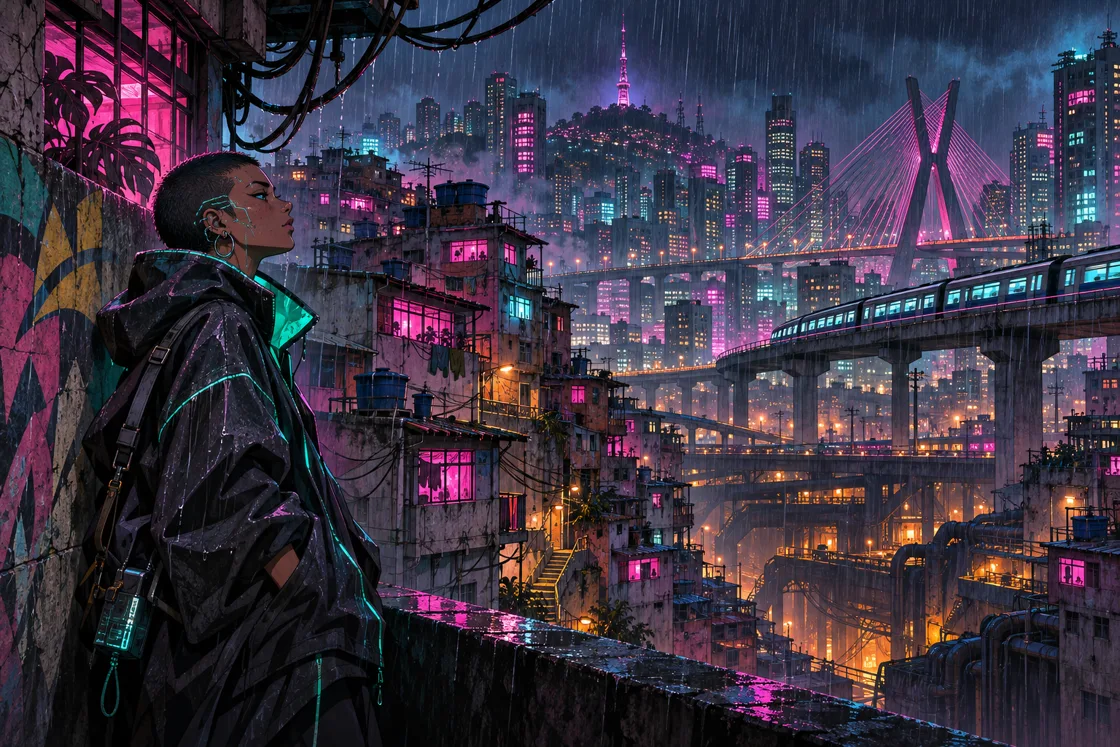
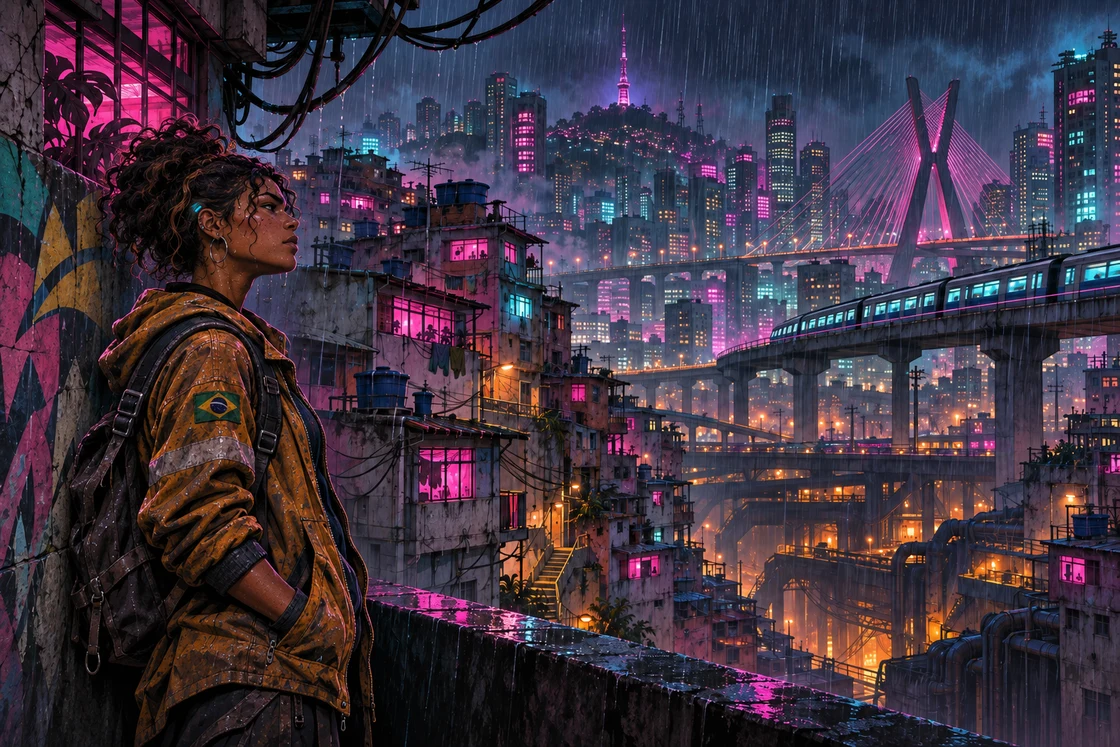
Match title screen Kairo to the prologue

diff --git a/docs/plano-arte-webcomic.md b/docs/plano-arte-webcomic.md
@@ -23,7 +23,7 @@ Reserve as onomatopeias para sons que pontuam a ação, como o leitor da porta e
 
 | Personagem | Referência aprovada |
 | --- | --- |
-| Kairo | [Retrato](../src/assets/kairo-token.webp) e [leitor da porta](../src/assets/comic/leitor-da-porta.webp). Mulher negra jovem. Preserve o tom de pele, a idade aparente e a manga escura do quadro ao mostrar sua mão. |
+| Kairo | [Prólogo na Estação](../src/assets/prologo-estacao.webp), [prólogo em casa](../src/assets/prologo-casa.webp) e [capa](../src/assets/baixa-luz-cover.webp). Mulher negra jovem, com cabelo preto crespo preso em coque alto e jaqueta de técnica em tom ocre. Use a mesma idade aparente, os mesmos traços e o mesmo tom de pele do prólogo, também nos closes como o [leitor da porta](../src/assets/comic/leitor-da-porta.webp). |
 | Íris | [Garagem](../src/assets/garagem-iris.webp) e [calibração](../src/assets/comic/filtro-optico.webp). Cabelo escuro encaracolado preso, pele morena e roupa de oficina verde-azulada sem mangas. |
 | Bia | [Conferência no Teatro](../src/assets/comic/conferencia-no-teatro.webp), à esquerda. Mulher jovem de pele morena, cabelo preto comprido e jaqueta ferrugem. Ela confere o papel. |
 | Helena | [Conferência no Teatro](../src/assets/comic/conferencia-no-teatro.webp), à direita. Mulher de meia-idade com pele oliva clara, cabelo escuro curto com grisalho nas têmporas e blazer azul-acinzentado. Ela segura a chave. |
